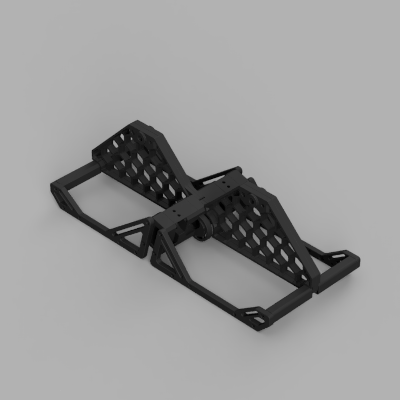
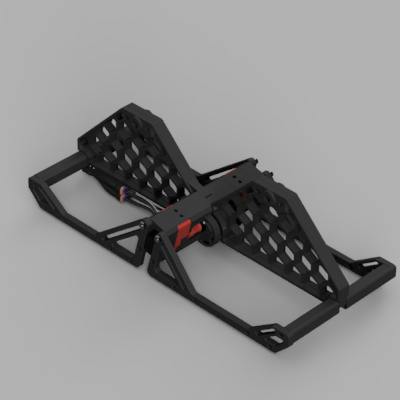
Add latch_lock.gif and update images and documentation in README.md and Update-Files.ps1

Changed region(s): [[0.06, 0.24, 0.99, 0.9]]

diff --git a/README.md b/README.md
@@ -22,7 +22,7 @@ Currently, this project aims to support loading and unloading filament before a 
 
 The YAMMU system features two identical feeders that take inspiration from Baboo Labs' "First Stage Loader." A key design advantage is the relatively short inlet tube, which simplifies the filament loading process and makes it exceptionally convenient. This practical design element sets it apart from other MMUs, as these feeders not only handle the initial loading of the filament but also seamlessly guide it directly into the extruder. As a result of this integrated functionality, a relatively large BLDC motor is required to ensure efficient operation and maintain consistent performance throughout the filament loading process. This approach not only enhances the user experience but also contributes to the overall reliability and effectiveness of the system.
 
-<img src="https://img.shields.io/badge/todo%3A_add_render-red" width="400px"></img>
+<img src="Images\latch_lock.gif" width="400px"></img>
 
 The filament is operated by two micro servos, which provide precise control and adjustability. These micro servos ensure that the filament functions efficiently and reliably. By utilizing these servos, the system achieves a high level of performance, making it suitable for various applications.
 
